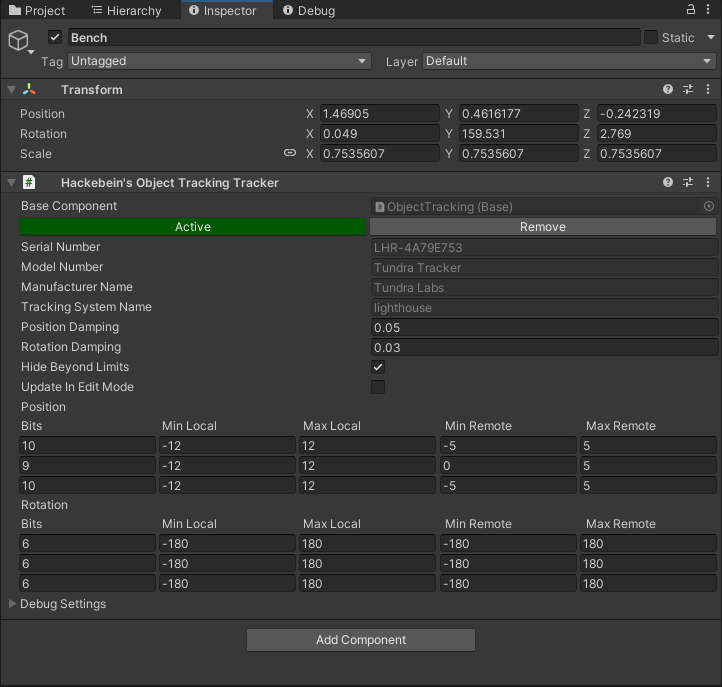
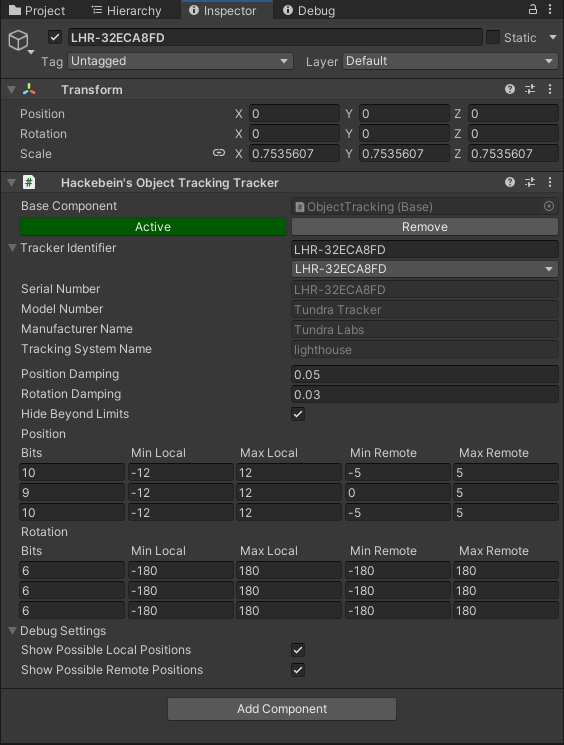
docs: update

diff --git a/README.md b/README.md
@@ -31,16 +31,42 @@ Pre-releases are essentially test versions that have undergone less rigorous tes
 ### Base Component
 ![Base Component](Docs/base_component.png)
 
-**Update Once**: Generates new Game Objects for Trackers which are not on your ignore list. Updates Trackers with "Update in Edit Mode" set.
+Recommendation: Start SteamVR to use live editing tools.
+Hint: Wake your Headset up if Tracker are not updating.
 
-**Update Continuously**: Same as Update Once. Running on every Scene redraw. (ex. hold right click in scene window)
+#### Transform
+Position, Rotation and Scale are frozen.
 
-**Add Menu**: Basic Menu to toggle objects. Also contains a toggle to stabilize your position. (You can create your own. List for Menu Items can be found below.)
+#### Base Component
+**Generate (missing) PlaySpace**: Generates new Game Objects for Trackers which are not on your ignore list.
+
+**Ignore**: Adds Tracker to Ignore list. Ignored Trackers will not be generated by pressing "Generate (missing) PlaySpace".
+
+**Enable/Active**, **Remove**: Proxy buttons from Tracker Component.
+
+**Identifier**-Dropdown: Quick selection
+
+**Update Once**: Updates on next scene draw.
+
+**Update Continuously**: Updates on every scene draw
+! Hint: Scene Window > Toggles (right top) > Always Refresh to continiously redraw.
 
 ### Tracker Component
 ![Tracker Component](Docs/tracker_component.png)
 
-**Identifier** (if no device data): Identifier for OSC
+#### Transform
+Position and Rotation are controlled by Component if Update Once/Continuously gets applied. Otherwise free to change.
+Scale is Real to VR multiplier. Make sure your Real Height in VRChat is set before uploading!
+
+#### Tracker Component
+
+**Enable**: Enables Tracker
+
+**Active**(green): Disables Tracker
+
+**Remove**: Removes Tracker
+
+**Identifier**: Identifier for OSC
 
 **Position Damping**: Smoothes position. Values from 0.00 (0%) to 1.00 (100%)
 
@@ -48,22 +74,15 @@ Pre-releases are essentially test versions that have undergone less rigorous tes
 
 **Hide Beyond Limits**: Hides the objects beyond the remote/yellow, as well as beyond the local/red area
 
-**Update in Edit Mode**: Allows to update this tracker from the Base Component
 
-### Menu Item
-#### ObjectTracking/tracker/\<IDENTIFIER\>/enabled
-Toggle - Enables Object
+## In-Game
 
-#### ObjectTracking/goStabilized
-Toggle - Stabilize movement if a lot of movement is going on
+In your Expression Menu should be an Object Tracking Sub menu.
 
-#### ObjectTracking/isStabilized [Read Only]
-#### ObjectTracking/isLazyStabilized [Read Only]
-Button - Shows if stabalization is active
+### Stabilization Modes
 
-### Debug Menu Item
-#### ObjectTracking/isRemotePreview
-Toggle - Switches to remote view.
+**Stabilization Off**: 
 
-#### ObjectTracking/config/global
-Toggle - Resends config to App.
+**Stabilization Lazy**: In Lazy Mode an world drop is placed when you stop using your Thumbsticks to move. This is automated. It's not synced for late joiners. Positions can slightly variate.
+
+**Stabilization On**: In On Mode, you take an automated jump or step forward to orientate playspace. It's recommended to not look to far up/down and to not move your head for 2s after toggling On.
